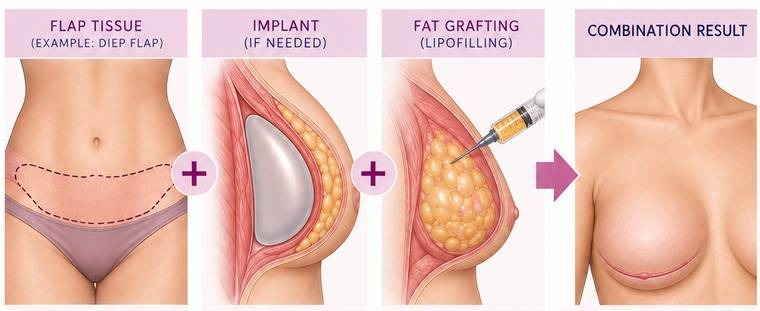
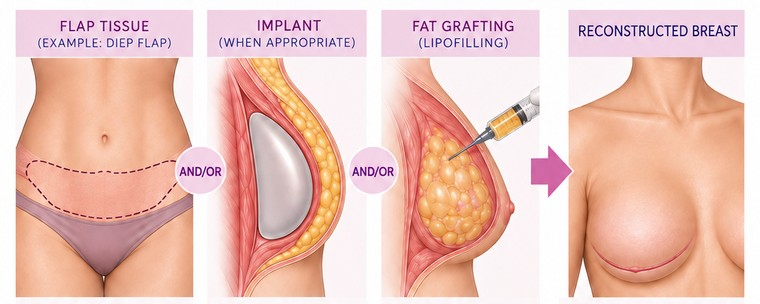
Rebuild the combination diagram, and source its panel text properly
Nicky's replacement poster is better written than the one it succeeds:
it says appearance, symmetry and sensation vary and that further
procedures may be needed, where the old captions promised "a natural
look and feel" and "customized results". Three details also improved --
"IMPLANT (WHEN APPROPRIATE)" rather than "(IF NEEDED)", AND/OR
connectors rather than plus signs, and a DIEP caption saying the
abdominal muscle is preserved without the "and fascia" that ASPS
itself uses and that Nicky corrected here in September.

Only the illustration strip is used. The poster's footer asserts
"Sources: ASPS - Breast Reconstruction; Procedure Steps", which nobody
verified when it was generated; a generated citation borrows authority
that has not been checked, which is worse than no citation at all. It
turns out to be broadly earned -- but it was checked afterwards, so it
does not ship. One claim fails outright: "fat collected by liposuction
is processed and injected" has no support, as ASPS mentions processing
or purifying nowhere on either page. That is the same gap that kept the
sentence out of the fat grafting panel earlier tonight.

The panel text was thin, so it now carries what the captions were
saying, sourced. All of it is from the ASPS procedure steps page, which
is cited alongside techniques: "A breast implant can be an addition or
alternative to flap techniques"; "often the latissimus flap provides
the muscle and tissue necessary to cover and support a breast implant";
[…]

diff --git a/index.html b/index.html
@@ -2255,10 +2255,10 @@
           <button type="button" class="recon-back" data-panel="panel-recon">&lsaquo; All options</button>
           <h2>Combination / Hybrid</h2>
           <div class="recon-art">
-            <img src="images/recon-combohybrid.jpg" alt="Flap tissue, an implant, and fat grafting shown combining into a single result" loading="lazy" width="760" height="311" />
+            <img src="images/recon-combohybrid.jpg" alt="Flap tissue, an implant and fat grafting shown side by side, joined by and/or, leading to a reconstructed breast" loading="lazy" width="760" height="304" />
           </div>
-          <p class="recon-body">More than one technique used together — for example flap tissue plus an implant, or a flap refined later with fat grafting. Tailored to your anatomy, goals, and any previous surgery.</p>
-          <p class="recon-src">Sources: <a href="https://www.plasticsurgery.org/reconstructive-procedures/breast-reconstruction/techniques" target="_blank" rel="noopener">American Society of Plastic Surgeons</a>; <a href="https://www.cancer.gov/types/breast/treatment/surgery/breast-reconstruction" target="_blank" rel="noopener">National Cancer Institute</a>; <a href="https://www.cancer.org/cancer/types/breast-cancer/reconstruction-surgery/breast-reconstruction-options.html" target="_blank" rel="noopener">American Cancer Society</a>.</p>
+          <p class="recon-body">More than one technique used together. An implant can be an <em>addition</em> to a flap rather than an alternative to it — a latissimus dorsi flap often supplies the muscle and tissue needed to cover and support an implant, instead of forming the whole breast on its own. An implant may also be used as a temporary placeholder during other cancer treatment, until you are ready for more involved flap surgery. Fat grafting usually comes later: the ASPS lists liposuction with fat grafting among the staged revision procedures that improve symmetry and the appearance of the donor site. Which combination fits depends on how much donor tissue you have, what your treatment involves, and what you want.</p>
+          <p class="recon-src">Sources: <a href="https://www.plasticsurgery.org/reconstructive-procedures/breast-reconstruction/techniques" target="_blank" rel="noopener">American Society of Plastic Surgeons — techniques</a>; <a href="https://www.plasticsurgery.org/reconstructive-procedures/breast-reconstruction/procedure" target="_blank" rel="noopener">ASPS — procedure steps</a>; <a href="https://www.cancer.gov/types/breast/treatment/surgery/breast-reconstruction" target="_blank" rel="noopener">National Cancer Institute</a>.</p>
         </div>
 
         <div class="tab-panel recon-detail" id="recon-NippleAreola" hidden>
